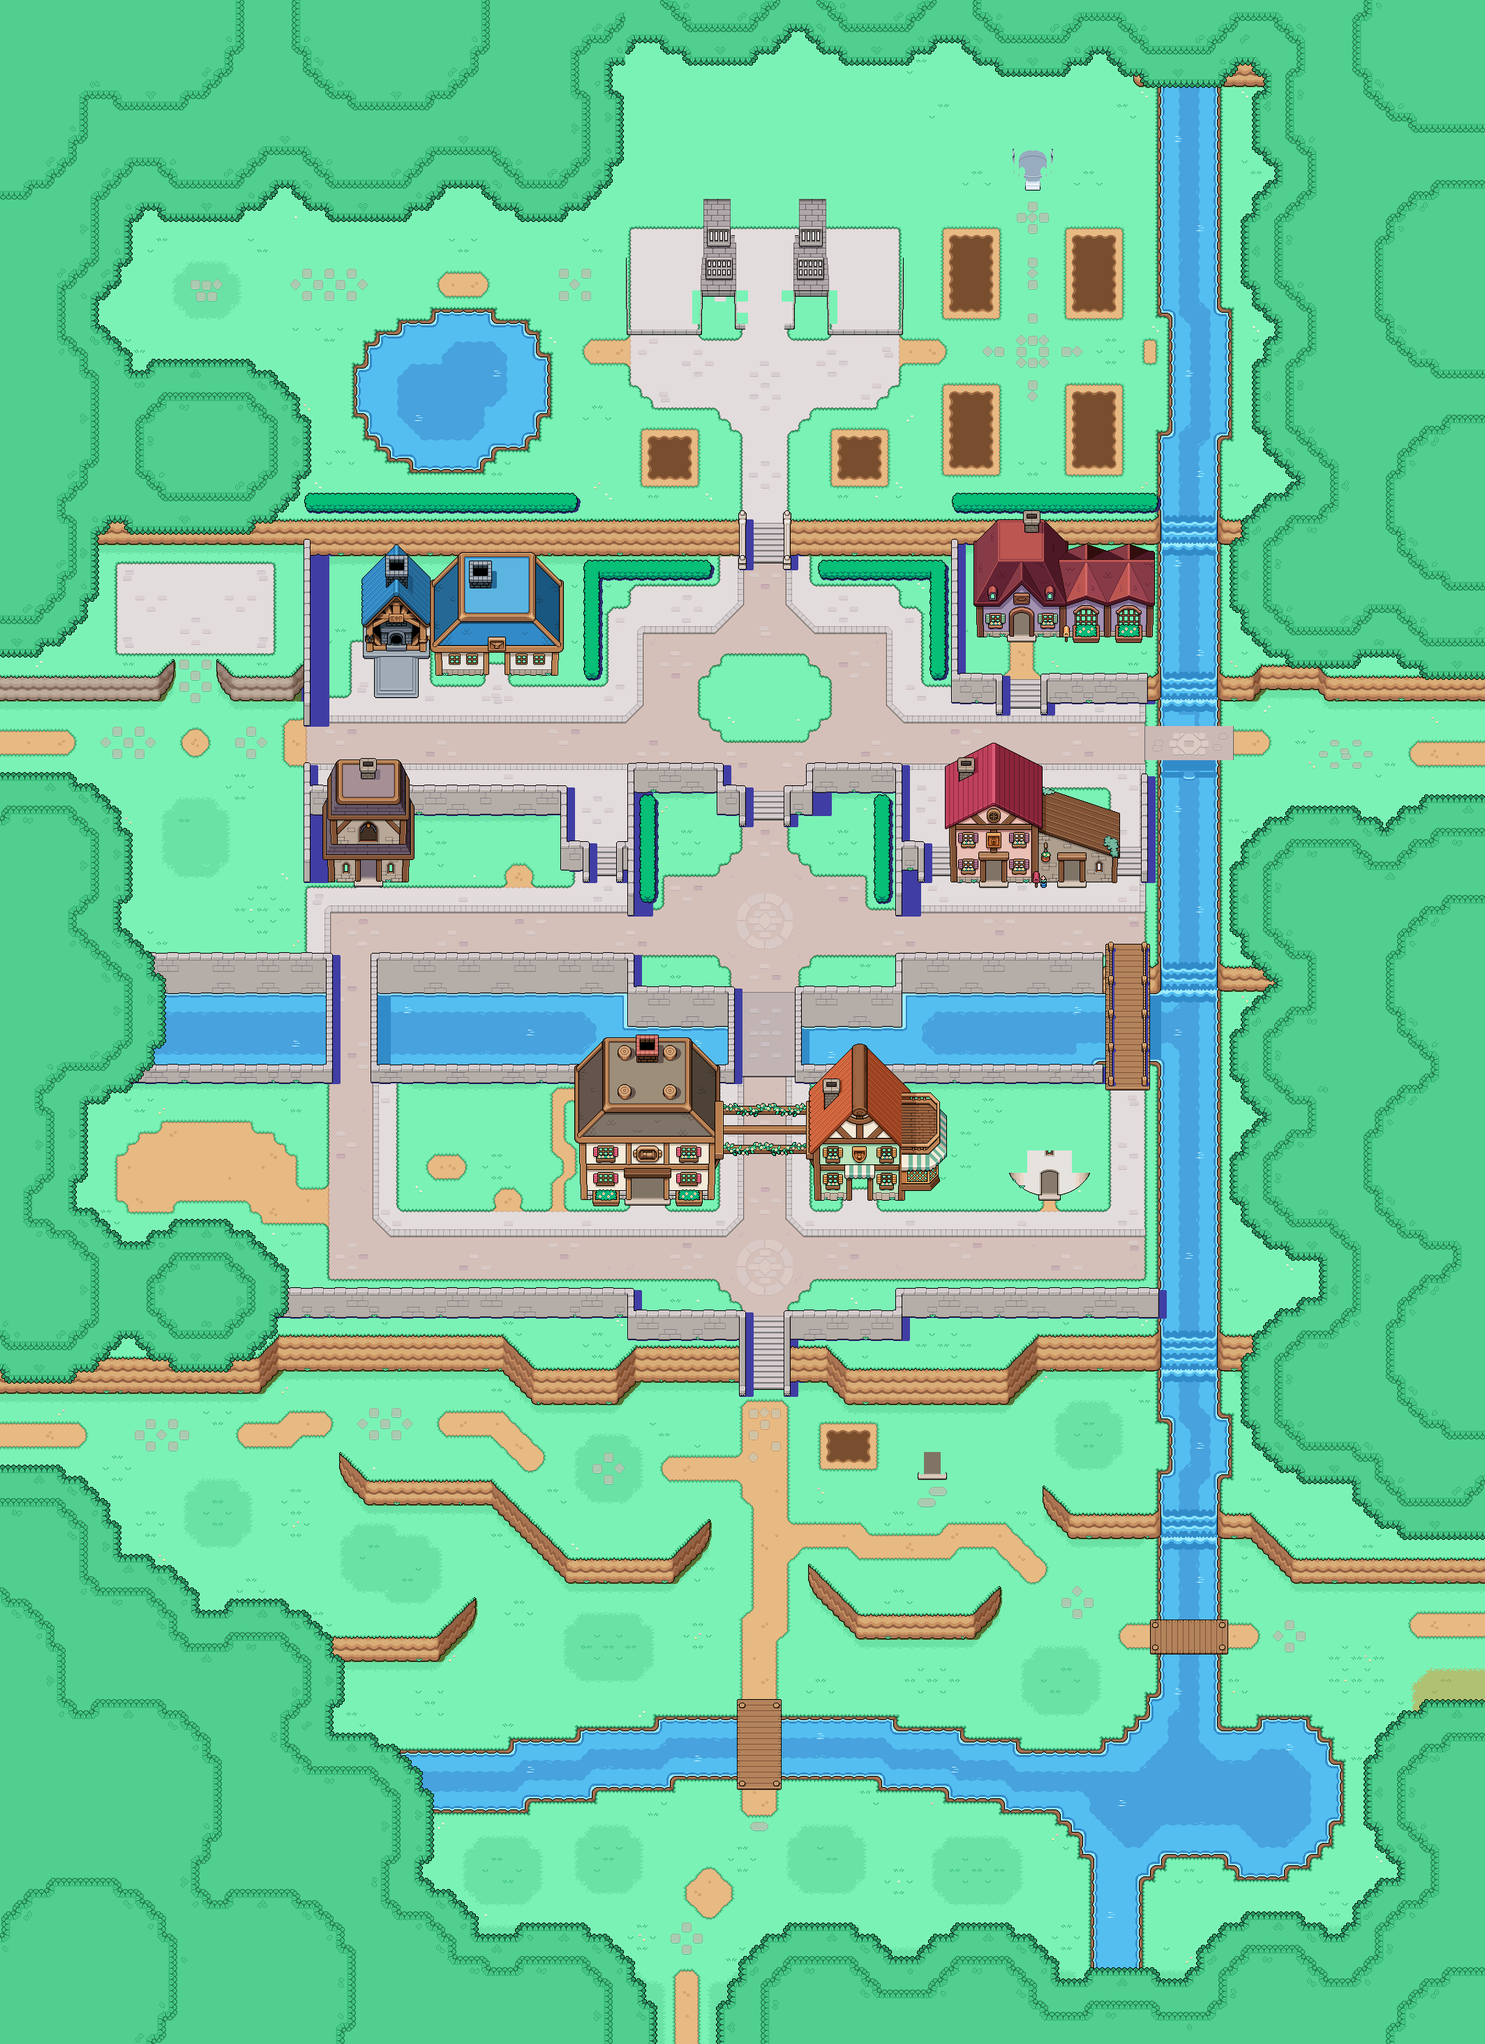
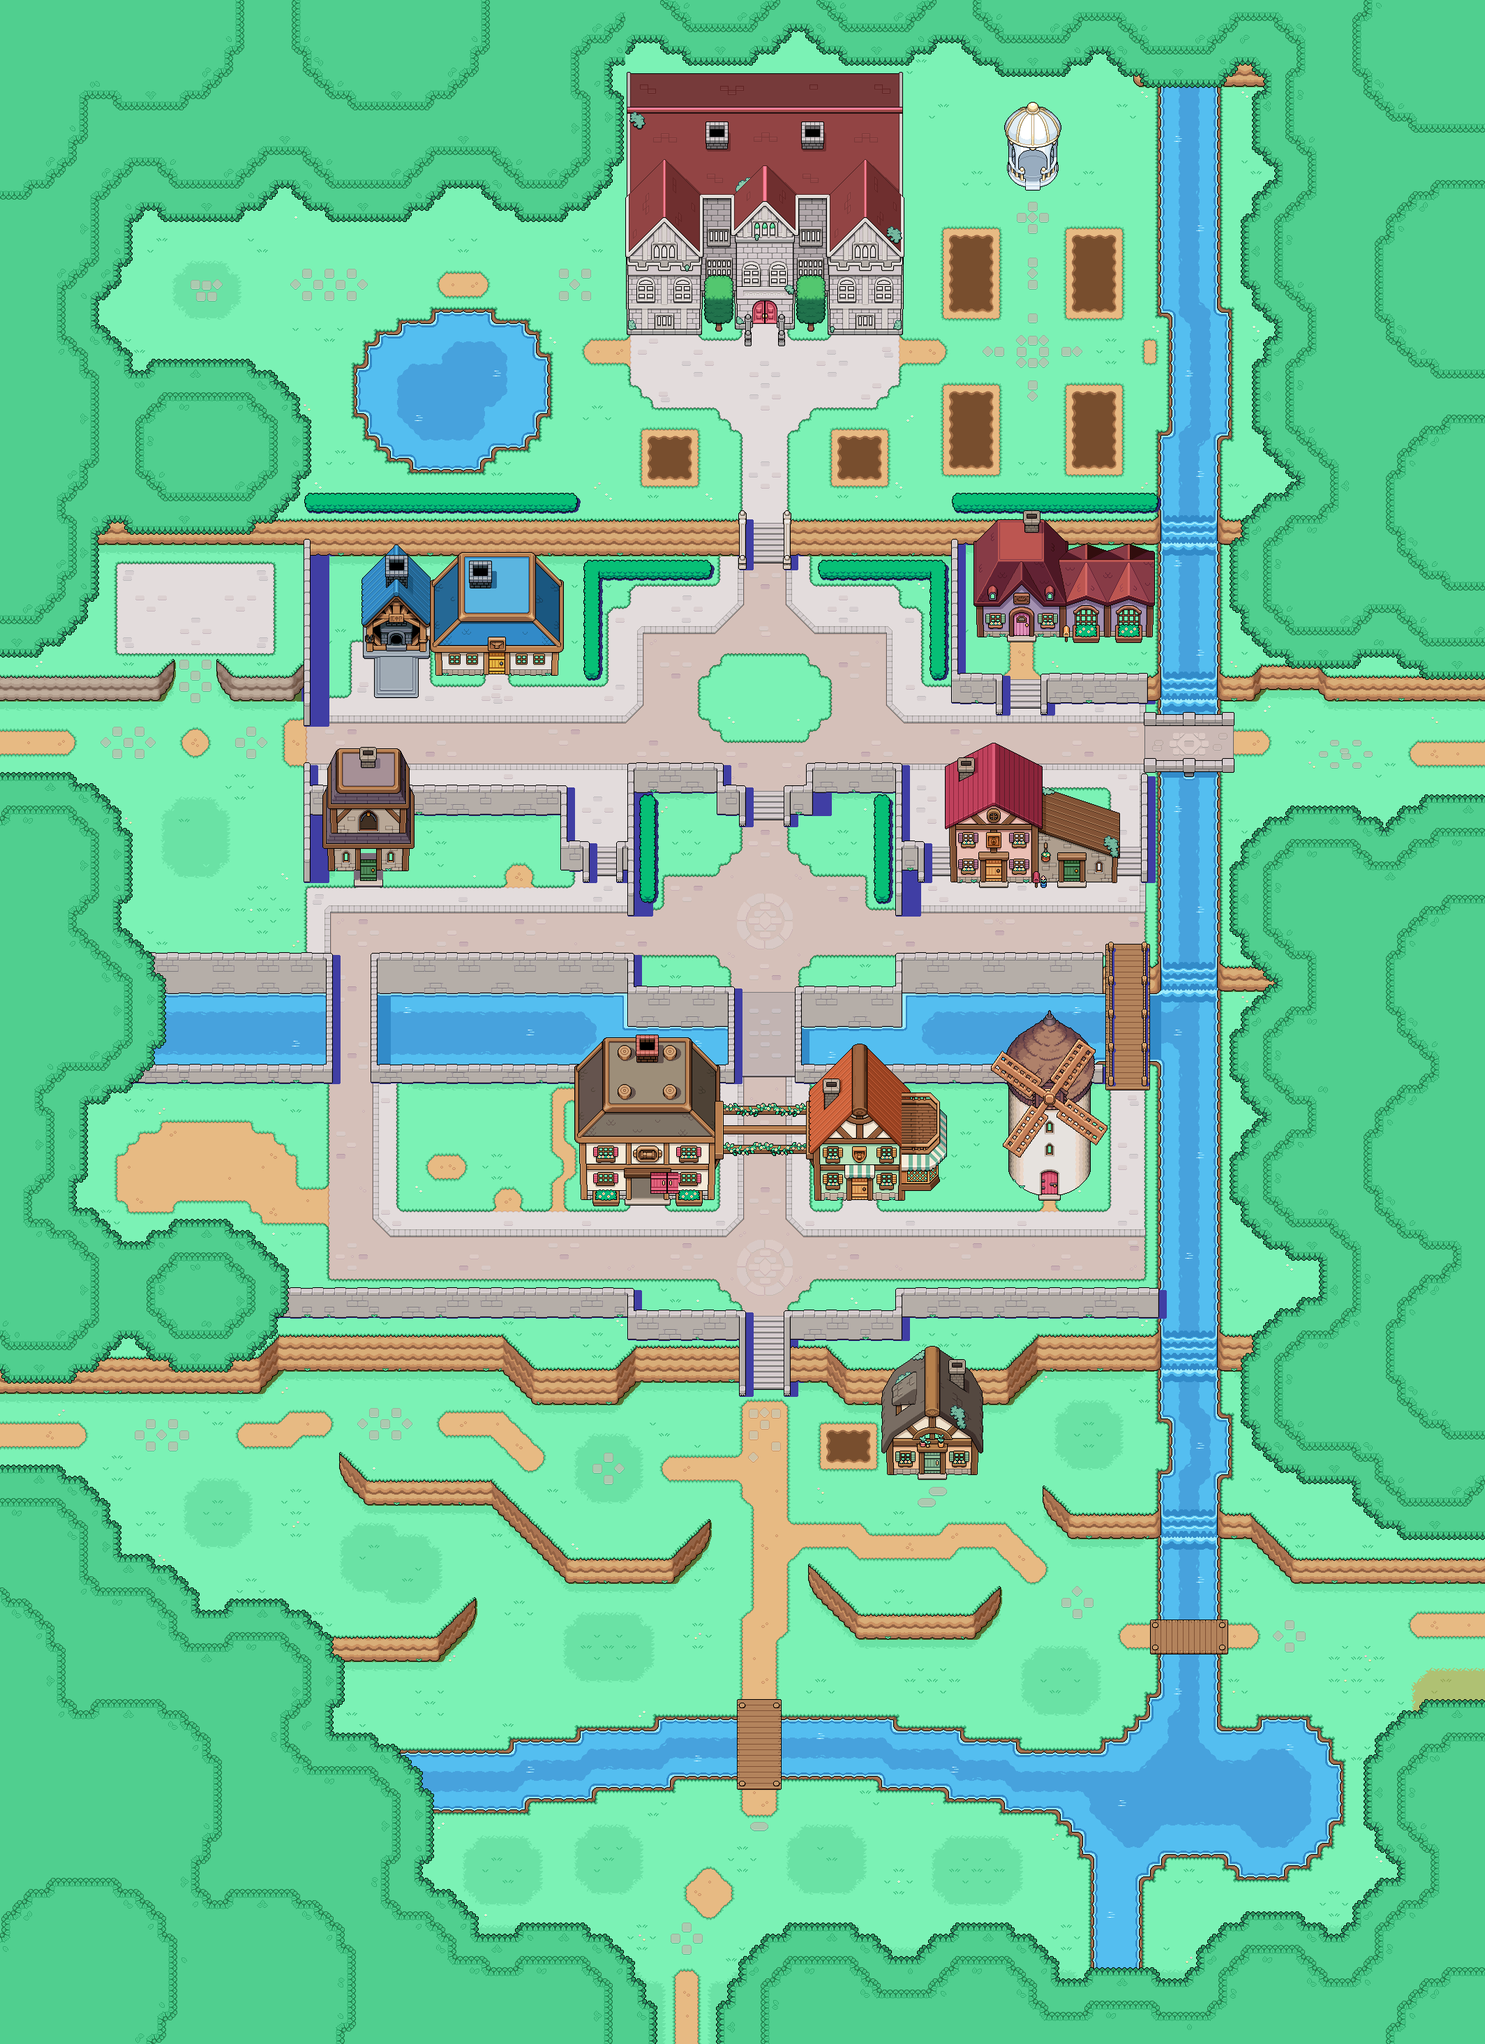
fix(world): complete authentic Manor House, Gazebo, single Mill, and remove ground artifacts

diff --git a/scripts/bake_full_rm_town.js b/scripts/bake_full_rm_town.js
@@ -260,32 +260,62 @@ async function main() {
   console.log('Rendering authentic buildings from village_assets...');
   const keyBuildings = [
     // Manor House
-    { file: 'public/village_assets/buildings/manor/spr_town_building_manor_spring.png', x: 872, y: 512, isBottomOrigin: true },
+    { file: 'public/village_assets/buildings/manor/spr_town_building_manor_spring.png', x: 872, y: 512, isBottomOrigin: true, frameW: 448, frameH: 432 },
+    { file: 'public/village_assets/buildings/manor/spr_town_building_manor_spring_top.png', x: 872, y: 512, isBottomOrigin: true, frameW: 448, frameH: 432 },
+    { file: 'public/village_assets/buildings/manor/spr_town_building_manor_doorway_spring.png', x: 1048, y: 504, isBottomOrigin: true, frameW: 96, frameH: 104 },
+    { file: 'public/village_assets/buildings/manor/spr_town_building_manor_door_spring_closed.png', x: 1064, y: 504, isBottomOrigin: true, frameW: 64, frameH: 88 },
+    { file: 'public/village_assets/buildings/manor/spr_manorhouse_tree_square_spring.png', x: 1006, y: 480, isBottomOrigin: true, frameW: 48, frameH: 88 },
+    { file: 'public/village_assets/buildings/manor/spr_manorhouse_tree_square_spring.png', x: 1138, y: 480, isBottomOrigin: true, frameW: 48, frameH: 88 },
+    
     // Gazebo
-    { file: 'public/village_assets/buildings/manor/spr_town_gazebo_spring.png', x: 1424, y: 284, isBottomOrigin: true },
+    { file: 'public/village_assets/buildings/manor/Gazebo/spr_town_gazebo_spring_ground.png', x: 1424, y: 284, isBottomOrigin: true, frameW: 120, frameH: 144 },
+    { file: 'public/village_assets/buildings/manor/Gazebo/spr_town_gazebo_spring.png', x: 1424, y: 284, isBottomOrigin: true, frameW: 120, frameH: 144 },
+
     // Blacksmith Forge & Shop
-    { file: 'public/village_assets/buildings/blacksmith/spr_town_building_blacksmith_left_spring.png', x: 504, y: 1016, isBottomOrigin: true },
-    { file: 'public/village_assets/buildings/blacksmith/spr_town_building_blacksmith_right_spring.png', x: 600, y: 984, isBottomOrigin: true },
+    { file: 'public/village_assets/buildings/blacksmith/spr_town_building_blacksmith_left_spring_ground.png', x: 504, y: 1016, isBottomOrigin: true, frameW: 136, frameH: 248 },
+    { file: 'public/village_assets/buildings/blacksmith/spr_town_building_blacksmith_left_spring.png', x: 504, y: 1016, isBottomOrigin: true, frameW: 136, frameH: 248 },
+    { file: 'public/village_assets/buildings/blacksmith/spr_town_building_blacksmith_right_spring.png', x: 600, y: 984, isBottomOrigin: true, frameW: 232, frameH: 200 },
+    { file: 'public/village_assets/buildings/blacksmith/spr_town_building_blacksmith_door_spring_closed.png', x: 684, y: 984, isBottomOrigin: true, frameW: 56, frameH: 71 },
+
     // Bathhouse
-    { file: 'public/village_assets/buildings/bathhouse/spr_town_building_bathhouse_spring.png', x: 1388, y: 929, isBottomOrigin: true },
+    { file: 'public/village_assets/buildings/bathhouse/spr_town_building_bathhouse_spring.png', x: 1388, y: 929, isBottomOrigin: true, frameW: 280, frameH: 208 },
+    { file: 'public/village_assets/buildings/bathhouse/spr_town_building_bathhouse_door_spring_closed.png', x: 1436, y: 926, isBottomOrigin: true, frameW: 56, frameH: 64 },
+
     // Clinic
-    { file: 'public/village_assets/buildings/clinic/spr_town_building_clinic_spring.png', x: 1344, y: 1281, isBottomOrigin: true },
+    { file: 'public/village_assets/buildings/clinic/spr_town_building_clinic_spring.png', x: 1344, y: 1281, isBottomOrigin: true, frameW: 288, frameH: 224 },
+    { file: 'public/village_assets/buildings/clinic/spr_town_building_clinic_door1_spring_closed.png', x: 1396, y: 1281, isBottomOrigin: true, frameW: 56, frameH: 71 },
+    { file: 'public/village_assets/buildings/clinic/spr_town_building_clinic_door2_spring_closed.png', x: 1508, y: 1281, isBottomOrigin: true, frameW: 56, frameH: 71 },
+
     // Bell Tower
-    { file: 'public/village_assets/buildings/bell_tower/spr_town_building_bell_tower_fixed_spring.png', x: 448, y: 1280, isBottomOrigin: true },
+    { file: 'public/village_assets/buildings/bell_tower/spr_town_building_bell_tower_fixed_spring.png', x: 448, y: 1280, isBottomOrigin: true, frameW: 160, frameH: 240 },
+    { file: 'public/village_assets/buildings/bell_tower/spr_town_building_bell_tower_door_spring_closed.png', x: 504, y: 1276, isBottomOrigin: true, frameW: 48, frameH: 54 },
+
     // Sleeping Dragon Inn
-    { file: 'public/village_assets/buildings/inn/spr_town_building_inn_spring.png', x: 812, y: 1736, isBottomOrigin: true },
-    { file: 'public/village_assets/buildings/inn/spr_town_building_inn_wooden_beams_spring.png', x: 1020, y: 1728, isBottomOrigin: true },
+    { file: 'public/village_assets/buildings/inn/spr_town_building_inn_spring.png', x: 812, y: 1736, isBottomOrigin: true, frameW: 256, frameH: 264 },
+    { file: 'public/village_assets/buildings/inn/spr_town_building_inn_wooden_beams_spring.png', x: 1020, y: 1728, isBottomOrigin: true, frameW: 152, frameH: 160 },
+    { file: 'public/village_assets/buildings/inn/spr_inn_main_door_spring_closed.png', x: 916, y: 1735, isBottomOrigin: true, frameW: 56, frameH: 71 },
+
     // General Store
-    { file: 'public/village_assets/buildings/general_store/spr_town_building_generalstore_spring.png', x: 1148, y: 1729, isBottomOrigin: true },
-    { file: 'public/village_assets/buildings/general_store/spr_town_building_generalstore_side_spring.png', x: 1284, y: 1727, isBottomOrigin: true },
-    // Mill (Only 1 single authentic Mill tower & blades, frame 0 clipped to 192x288)
+    { file: 'public/village_assets/buildings/general_store/spr_town_building_generalstore_spring.png', x: 1148, y: 1729, isBottomOrigin: true, frameW: 168, frameH: 240 },
+    { file: 'public/village_assets/buildings/general_store/spr_town_building_generalstore_side_spring.png', x: 1284, y: 1727, isBottomOrigin: true, frameW: 104, frameH: 176 },
+    { file: 'public/village_assets/buildings/general_store/spr_town_building_generalstore_door_spring_closed.png', x: 1204, y: 1737, isBottomOrigin: true, frameW: 56, frameH: 71 },
+
+    // Mill (Single authentic Mill tower, base, doorway, door & blades - all clipped to frame 0 192x288)
     { file: 'public/village_assets/buildings/mill/spr_town_building_mill_spring_base_on.png', x: 1408, y: 1728, isBottomOrigin: true, frameW: 192, frameH: 288 },
     { file: 'public/village_assets/buildings/mill/spr_town_building_mill_spring_doorway_on.png', x: 1408, y: 1728, isBottomOrigin: true, frameW: 192, frameH: 288 },
-    { file: 'public/village_assets/buildings/mill/spr_town_building_mill_spring_door_on.png', x: 1488, y: 1728, isBottomOrigin: true, frameW: 32, frameH: 48 },
+    { file: 'public/village_assets/buildings/mill/spr_town_building_mill_door_spring_closed.png', x: 1480, y: 1727, isBottomOrigin: true, frameW: 48, frameH: 64 },
+    { file: 'public/village_assets/buildings/mill/spr_town_building_mill_spring_tower_on.png', x: 1408, y: 1728, isBottomOrigin: true, frameW: 192, frameH: 288 },
+    { file: 'public/village_assets/buildings/mill/spr_town_building_mill_spring_blades_on.png', x: 1408, y: 1728, isBottomOrigin: true, frameW: 192, frameH: 288 },
+
     // Celine's Cottage
-    { file: 'public/village_assets/buildings/cottage/spr_town_building_cottage_spring.png', x: 1264, y: 2136, isBottomOrigin: true },
-    // Stone Bridge over the eastern river
-    { file: 'public/village_assets/architecture/bridges/spr_town_bridge_stone_middle.png', x: 1616, y: 1016, isBottomOrigin: true, frameW: 64, frameH: 96 }
+    { file: 'public/village_assets/buildings/cottage/spr_town_building_celine_spring.png', x: 1256, y: 2129, isBottomOrigin: true, frameW: 176, frameH: 208 },
+    { file: 'public/village_assets/buildings/cottage/spr_town_building_celine_door_spring_closed.png', x: 1304, y: 2135, isBottomOrigin: true, frameW: 64, frameH: 72 },
+
+    // Stone Bridge over eastern river (frame 0 clipped to 184x112)
+    { file: 'public/village_assets/architecture/bridges/spr_town_stone_bridge_horizontal_flat_spring_ground.png', x: 1616, y: 1128, isBottomOrigin: true, frameW: 184, frameH: 112 },
+    { file: 'public/village_assets/architecture/bridges/spr_town_stone_bridge_horizontal_flat_water.png', x: 1616, y: 1128, isBottomOrigin: true, frameW: 184, frameH: 112 },
+    { file: 'public/village_assets/architecture/bridges/spr_town_stone_bridge_horizontal_flat_spring.png', x: 1616, y: 1128, isBottomOrigin: true, frameW: 184, frameH: 112 },
+    { file: 'public/village_assets/architecture/bridges/spr_town_stone_bridge_horizontal_flat_spring_top.png', x: 1616, y: 1128, isBottomOrigin: true, frameW: 184, frameH: 112 }
   ];
 
   for (const b of keyBuildings) {

diff --git a/scripts/verify_buildings.js b/scripts/verify_buildings.js
@@ -1,0 +1,86 @@
+const fs = require('fs');
+const path = require('path');
+const sharp = require('sharp');
+
+const buildings = [
+  // Manor House
+  { name: 'Manor Chimeys', file: 'public/village_assets/buildings/manor/spr_town_building_manor_spring.png', x: 872, y: 512, frameW: 448, frameH: 432 },
+  { name: 'Manor Top/Main', file: 'public/village_assets/buildings/manor/spr_town_building_manor_spring_top.png', x: 872, y: 512, frameW: 448, frameH: 432 },
+  { name: 'Manor Doorway', file: 'public/village_assets/buildings/manor/spr_town_building_manor_doorway_spring.png', x: 1048, y: 504, frameW: 96, frameH: 104 },
+  { name: 'Manor Door', file: 'public/village_assets/buildings/manor/spr_town_building_manor_door_spring_closed.png', x: 1064, y: 504, frameW: 64, frameH: 88 },
+  { name: 'Manor Tree L', file: 'public/village_assets/buildings/manor/spr_manorhouse_tree_square_spring.png', x: 1006, y: 480, frameW: 48, frameH: 88 },
+  { name: 'Manor Tree R', file: 'public/village_assets/buildings/manor/spr_manorhouse_tree_square_spring.png', x: 1138, y: 480, frameW: 48, frameH: 88 },
+  
+  // Gazebo
+  { name: 'Gazebo Ground', file: 'public/village_assets/buildings/manor/Gazebo/spr_town_gazebo_spring_ground.png', x: 1424, y: 284, frameW: 120, frameH: 144 },
+  { name: 'Gazebo Structure', file: 'public/village_assets/buildings/manor/Gazebo/spr_town_gazebo_spring.png', x: 1424, y: 284, frameW: 120, frameH: 144 },
+
+  // Blacksmith
+  { name: 'Blacksmith Ground', file: 'public/village_assets/buildings/blacksmith/spr_town_building_blacksmith_left_spring_ground.png', x: 504, y: 1016, frameW: 136, frameH: 248 },
+  { name: 'Blacksmith Left', file: 'public/village_assets/buildings/blacksmith/spr_town_building_blacksmith_left_spring.png', x: 504, y: 1016, frameW: 136, frameH: 248 },
+  { name: 'Blacksmith Right', file: 'public/village_assets/buildings/blacksmith/spr_town_building_blacksmith_right_spring.png', x: 600, y: 984, frameW: 232, frameH: 200 },
+  { name: 'Blacksmith Door', file: 'public/village_assets/buildings/blacksmith/spr_town_building_blacksmith_door_spring_closed.png', x: 684, y: 984, frameW: 56, frameH: 71 },
+
+  // Bathhouse
+  { name: 'Bathhouse', file: 'public/village_assets/buildings/bathhouse/spr_town_building_bathhouse_spring.png', x: 1388, y: 929, frameW: 280, frameH: 208 },
+  { name: 'Bathhouse Door', file: 'public/village_assets/buildings/bathhouse/spr_town_building_bathhouse_door_spring_closed.png', x: 1436, y: 926, frameW: 56, frameH: 64 },
+
+  // Clinic
+  { name: 'Clinic', file: 'public/village_assets/buildings/clinic/spr_town_building_clinic_spring.png', x: 1344, y: 1281, frameW: 288, frameH: 224 },
+  { name: 'Clinic Door 1', file: 'public/village_assets/buildings/clinic/spr_town_building_clinic_door1_spring_closed.png', x: 1396, y: 1281, frameW: 56, frameH: 71 },
+  { name: 'Clinic Door 2', file: 'public/village_assets/buildings/clinic/spr_town_building_clinic_door2_spring_closed.png', x: 1508, y: 1281, frameW: 56, frameH: 71 },
+
+  // Bell Tower
+  { name: 'Bell Tower', file: 'public/village_assets/buildings/bell_tower/spr_town_building_bell_tower_fixed_spring.png', x: 448, y: 1280, frameW: 160, frameH: 240 },
+  { name: 'Bell Tower Door', file: 'public/village_assets/buildings/bell_tower/spr_town_building_bell_tower_door_spring_closed.png', x: 504, y: 1276, frameW: 48, frameH: 54 },
+
+  // Stable
+  { name: 'Stable Ground', file: 'public/village_assets/buildings/stable/spr_town_building_stable_ground.png', x: 584, y: 1648, frameW: 216, frameH: 159 },
+  { name: 'Stable', file: 'public/village_assets/buildings/stable/spr_town_building_stable_spring.png', x: 584, y: 1648, frameW: 216, frameH: 159 },
+
+  // Sleeping Dragon Inn
+  { name: 'Inn', file: 'public/village_assets/buildings/inn/spr_town_building_inn_spring.png', x: 812, y: 1736, frameW: 272, frameH: 272 },
+  { name: 'Inn Wooden Beams', file: 'public/village_assets/buildings/inn/spr_town_building_inn_wooden_beams_spring.png', x: 1020, y: 1728, frameW: 64, frameH: 160 },
+  { name: 'Inn Door', file: 'public/village_assets/buildings/inn/spr_town_building_inn_door_spring_closed.png', x: 916, y: 1735, frameW: 56, frameH: 71 },
+
+  // General Store
+  { name: 'General Store', file: 'public/village_assets/buildings/general_store/spr_town_building_generalstore_spring.png', x: 1148, y: 1729, frameW: 200, frameH: 248 },
+  { name: 'General Store Side', file: 'public/village_assets/buildings/general_store/spr_town_building_generalstore_side_spring.png', x: 1284, y: 1727, frameW: 104, frameH: 184 },
+  { name: 'General Store Door', file: 'public/village_assets/buildings/general_store/spr_town_building_generalstore_door_spring_closed.png', x: 1204, y: 1737, frameW: 56, frameH: 71 },
+
+  // Mill
+  { name: 'Mill Base', file: 'public/village_assets/buildings/mill/spr_town_building_mill_spring_base_on.png', x: 1408, y: 1728, frameW: 192, frameH: 288 },
+  { name: 'Mill Doorway', file: 'public/village_assets/buildings/mill/spr_town_building_mill_spring_doorway_on.png', x: 1408, y: 1728, frameW: 192, frameH: 288 },
+  { name: 'Mill Door', file: 'public/village_assets/buildings/mill/spr_town_building_mill_door_spring_closed.png', x: 1480, y: 1727, frameW: 48, frameH: 64 },
+  { name: 'Mill Tower', file: 'public/village_assets/buildings/mill/spr_town_building_mill_spring_tower_on.png', x: 1408, y: 1728, frameW: 192, frameH: 288 },
+  { name: 'Mill Blades', file: 'public/village_assets/buildings/mill/spr_town_building_mill_spring_blades_on.png', x: 1408, y: 1728, frameW: 192, frameH: 288 },
+
+  // Celine's Cottage
+  { name: 'Celine Cottage', file: 'public/village_assets/buildings/cottage/spr_town_building_celine_spring.png', x: 1256, y: 2129, frameW: 176, frameH: 208 },
+  { name: 'Celine Door', file: 'public/village_assets/buildings/cottage/spr_town_building_celine_door_spring_closed.png', x: 1304, y: 2135, frameW: 64, frameH: 72 },
+
+  // Bridges
+  { name: 'Stone Bridge Ground', file: 'public/village_assets/architecture/bridges/spr_town_stone_bridge_horizontal_flat_spring_ground.png', x: 1616, y: 1128, frameW: 184, frameH: 112 },
+  { name: 'Stone Bridge Water', file: 'public/village_assets/architecture/bridges/spr_town_stone_bridge_horizontal_flat_water.png', x: 1616, y: 1128, frameW: 184, frameH: 112 },
+  { name: 'Stone Bridge Flat', file: 'public/village_assets/architecture/bridges/spr_town_stone_bridge_horizontal_flat_spring.png', x: 1616, y: 1128, frameW: 184, frameH: 112 },
+  { name: 'Stone Bridge Top', file: 'public/village_assets/architecture/bridges/spr_town_stone_bridge_horizontal_flat_spring_top.png', x: 1616, y: 1128, frameW: 184, frameH: 112 },
+
+  // Balor's Wagon
+  { name: 'Balor Wagon', file: 'public/village_assets/architecture/market_stalls/Balor/spr_town_balor_wagon_spring.png', x: 875, y: 2056, frameW: 104, frameH: 96 }
+];
+
+async function checkAll() {
+  console.log('Checking all building files...');
+  let missing = 0;
+  for (const b of buildings) {
+    if (!fs.existsSync(b.file)) {
+      console.error(`MISSING: ${b.name} -> ${b.file}`);
+      missing++;
+    } else {
+      const meta = await sharp(b.file).metadata();
+      console.log(`OK: ${b.name.padEnd(20)} | file size: ${meta.width}x${meta.height} | dest: (${b.x}, ${b.y}) frame: ${b.frameW}x${b.frameH}`);
+    }
+  }
+  console.log(`Finished check. Missing files: ${missing}`);
+}
+checkAll();
